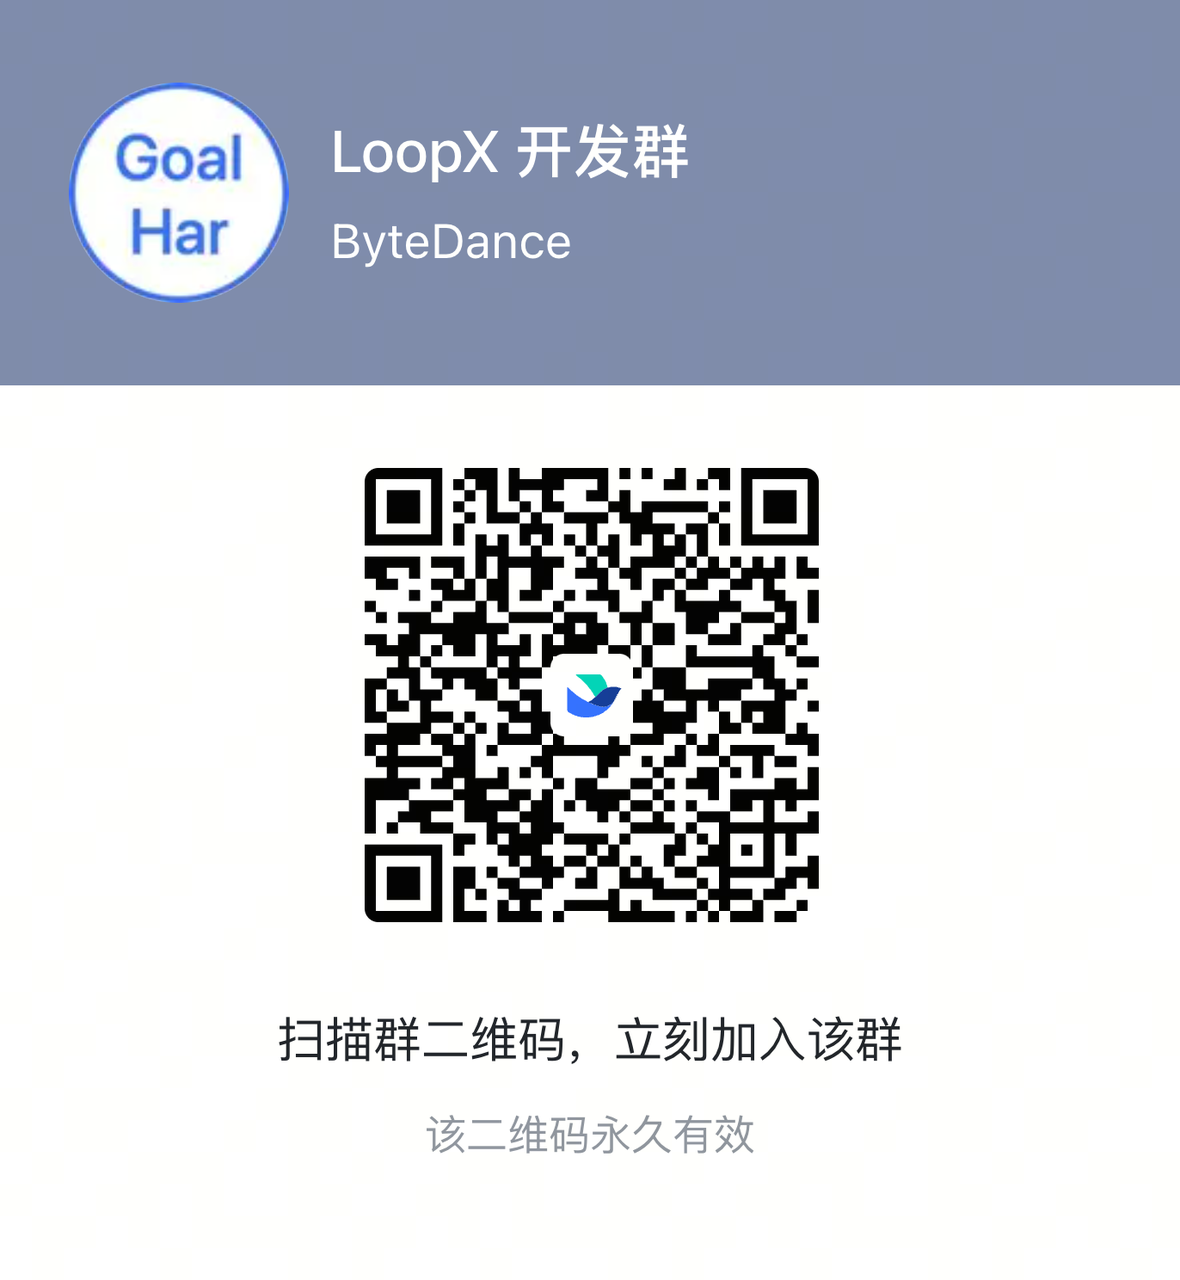
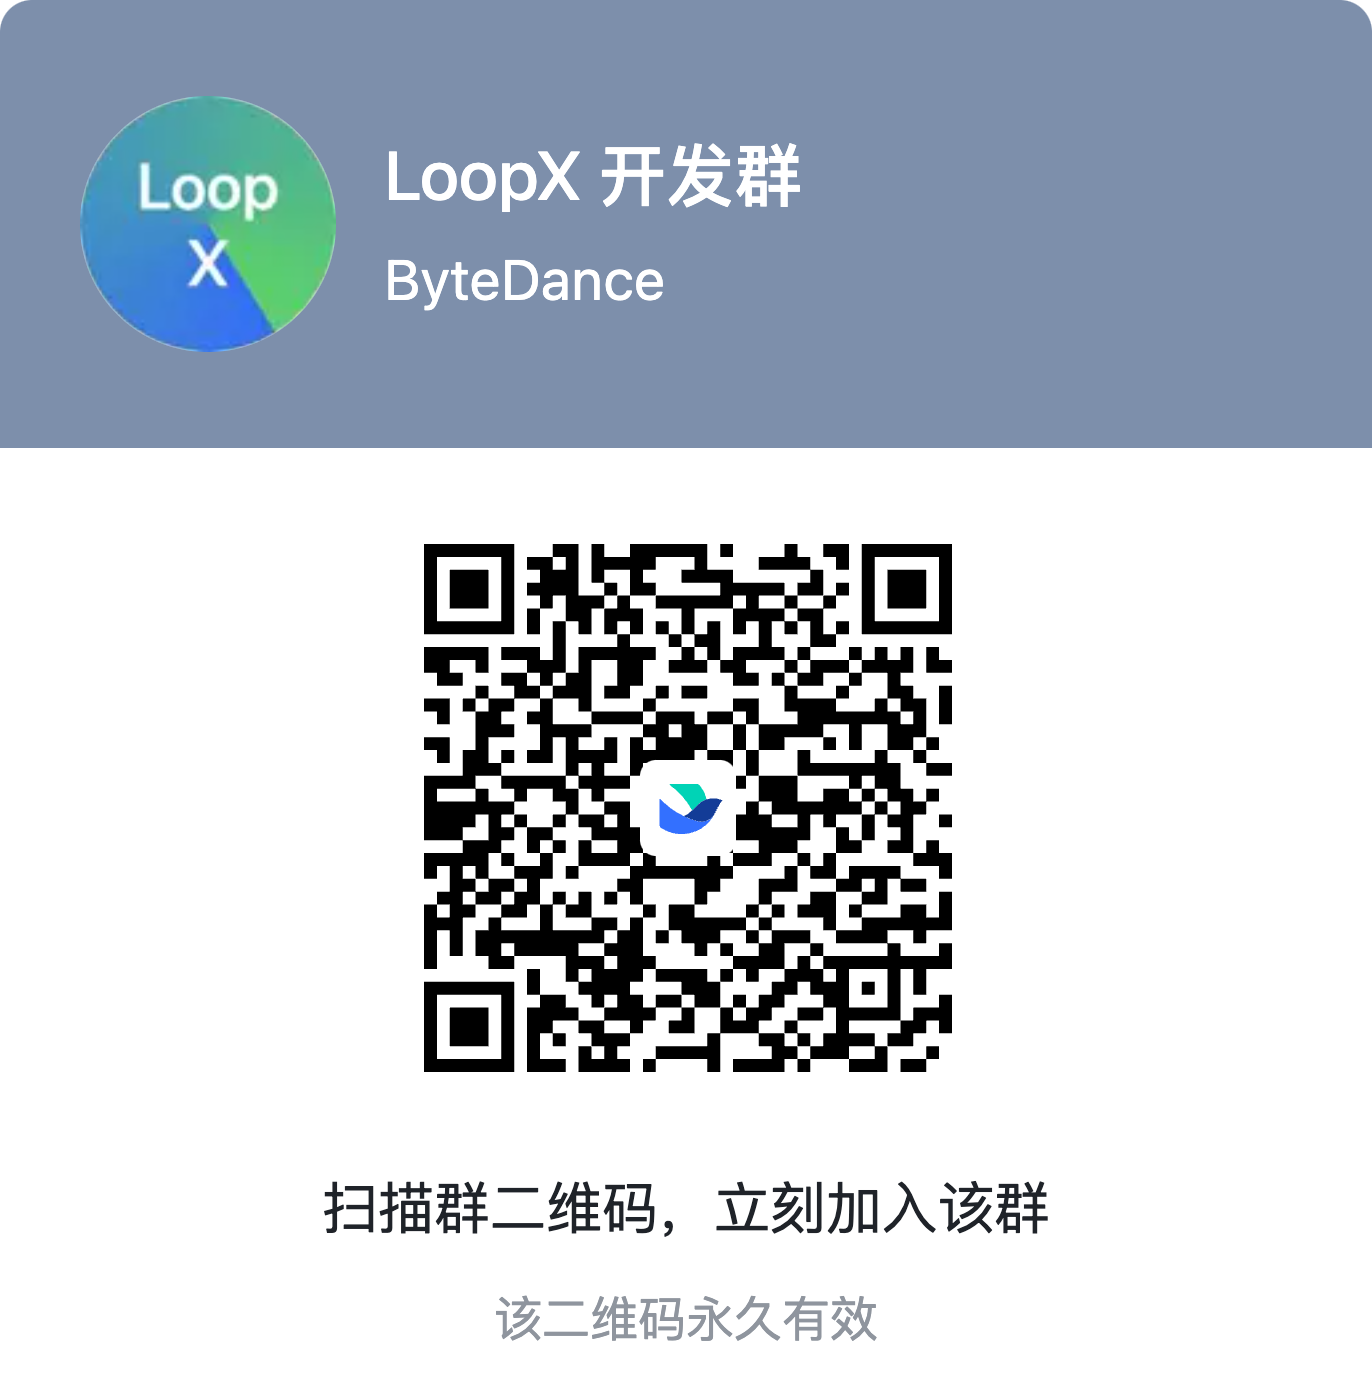
docs: consolidate community QR entry (#2271)

diff --git a/README.md b/README.md
@@ -657,25 +657,16 @@ heavy, and which user gates or handoffs still disappeared from view.
 - Use [GitHub Issues](https://github.com/huangruiteng/loopx/issues) for
   reproducible bugs, install problems, and feature requests.
 - Open PRs for docs fixes, showcase writeups, and small public-safe examples.
-- For Chinese-speaking early users, scan the Lark user group first for fast
-  onboarding help, feedback loops, and showcase co-creation. Use the Lark
-  developer group for implementation questions and contributor coordination. A
-  WeChat group QR is available as a backup, but QR codes may expire; if one is
-  stale, use Lark or open an issue to ask for a refresh.
+- For Chinese-speaking users and contributors, use the Lark developer group for
+  onboarding help, feedback, implementation questions, and contributor
+  coordination. The invite QR is intended to remain valid; open an issue if it
+  stops working.
 
 <table>
   <tr>
-    <td align="center" width="240">
-      <img src="docs/assets/loopx-lark-user-group.png" alt="LoopX Lark user group QR code" width="200"><br>
-      Lark user group
-    </td>
-    <td align="center" width="240">
-      <img src="docs/assets/loopx-lark-developer-group.png" alt="LoopX Lark developer group QR code" width="200"><br>
+    <td align="center" width="320">
+      <img src="docs/assets/loopx-lark-developer-group.png" alt="LoopX Lark developer group QR code" width="240"><br>
       Lark developer group
-    </td>
-    <td align="center" width="240">
-      <img src="docs/assets/loopx-wechat-user-group.png" alt="LoopX WeChat user group QR code" width="200"><br>
-      WeChat group, may expire
     </td>
   </tr>
 </table>
